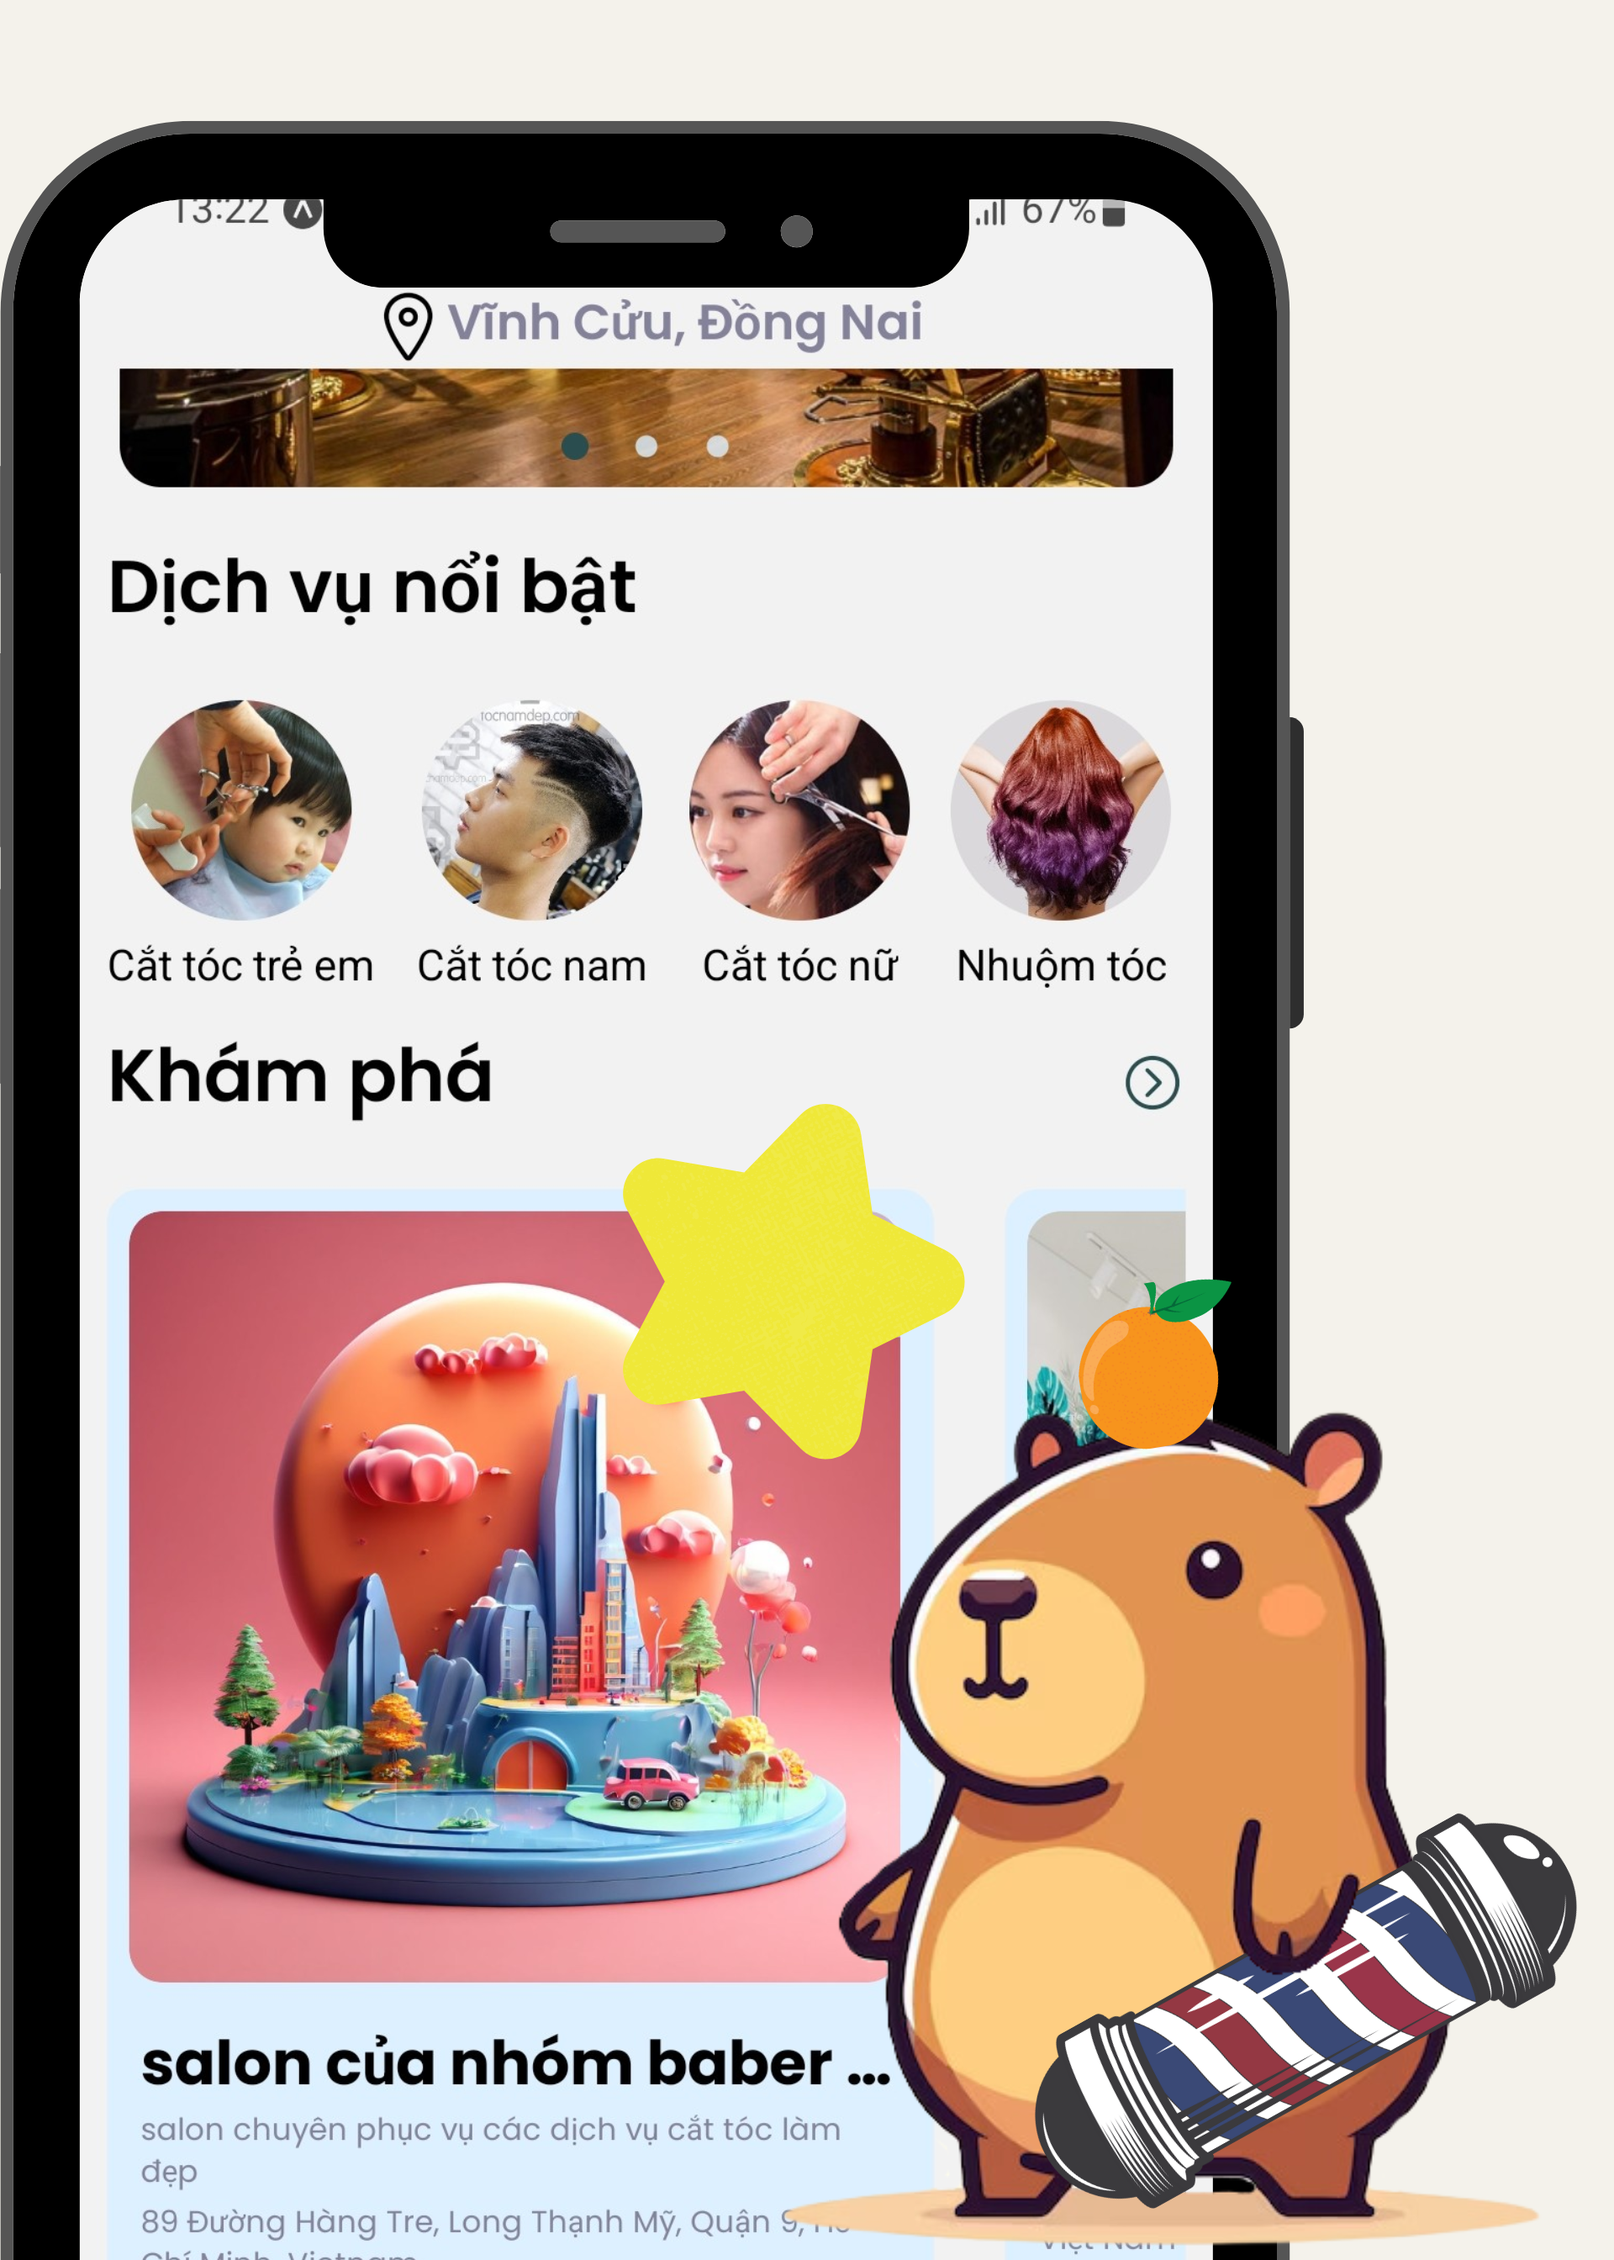
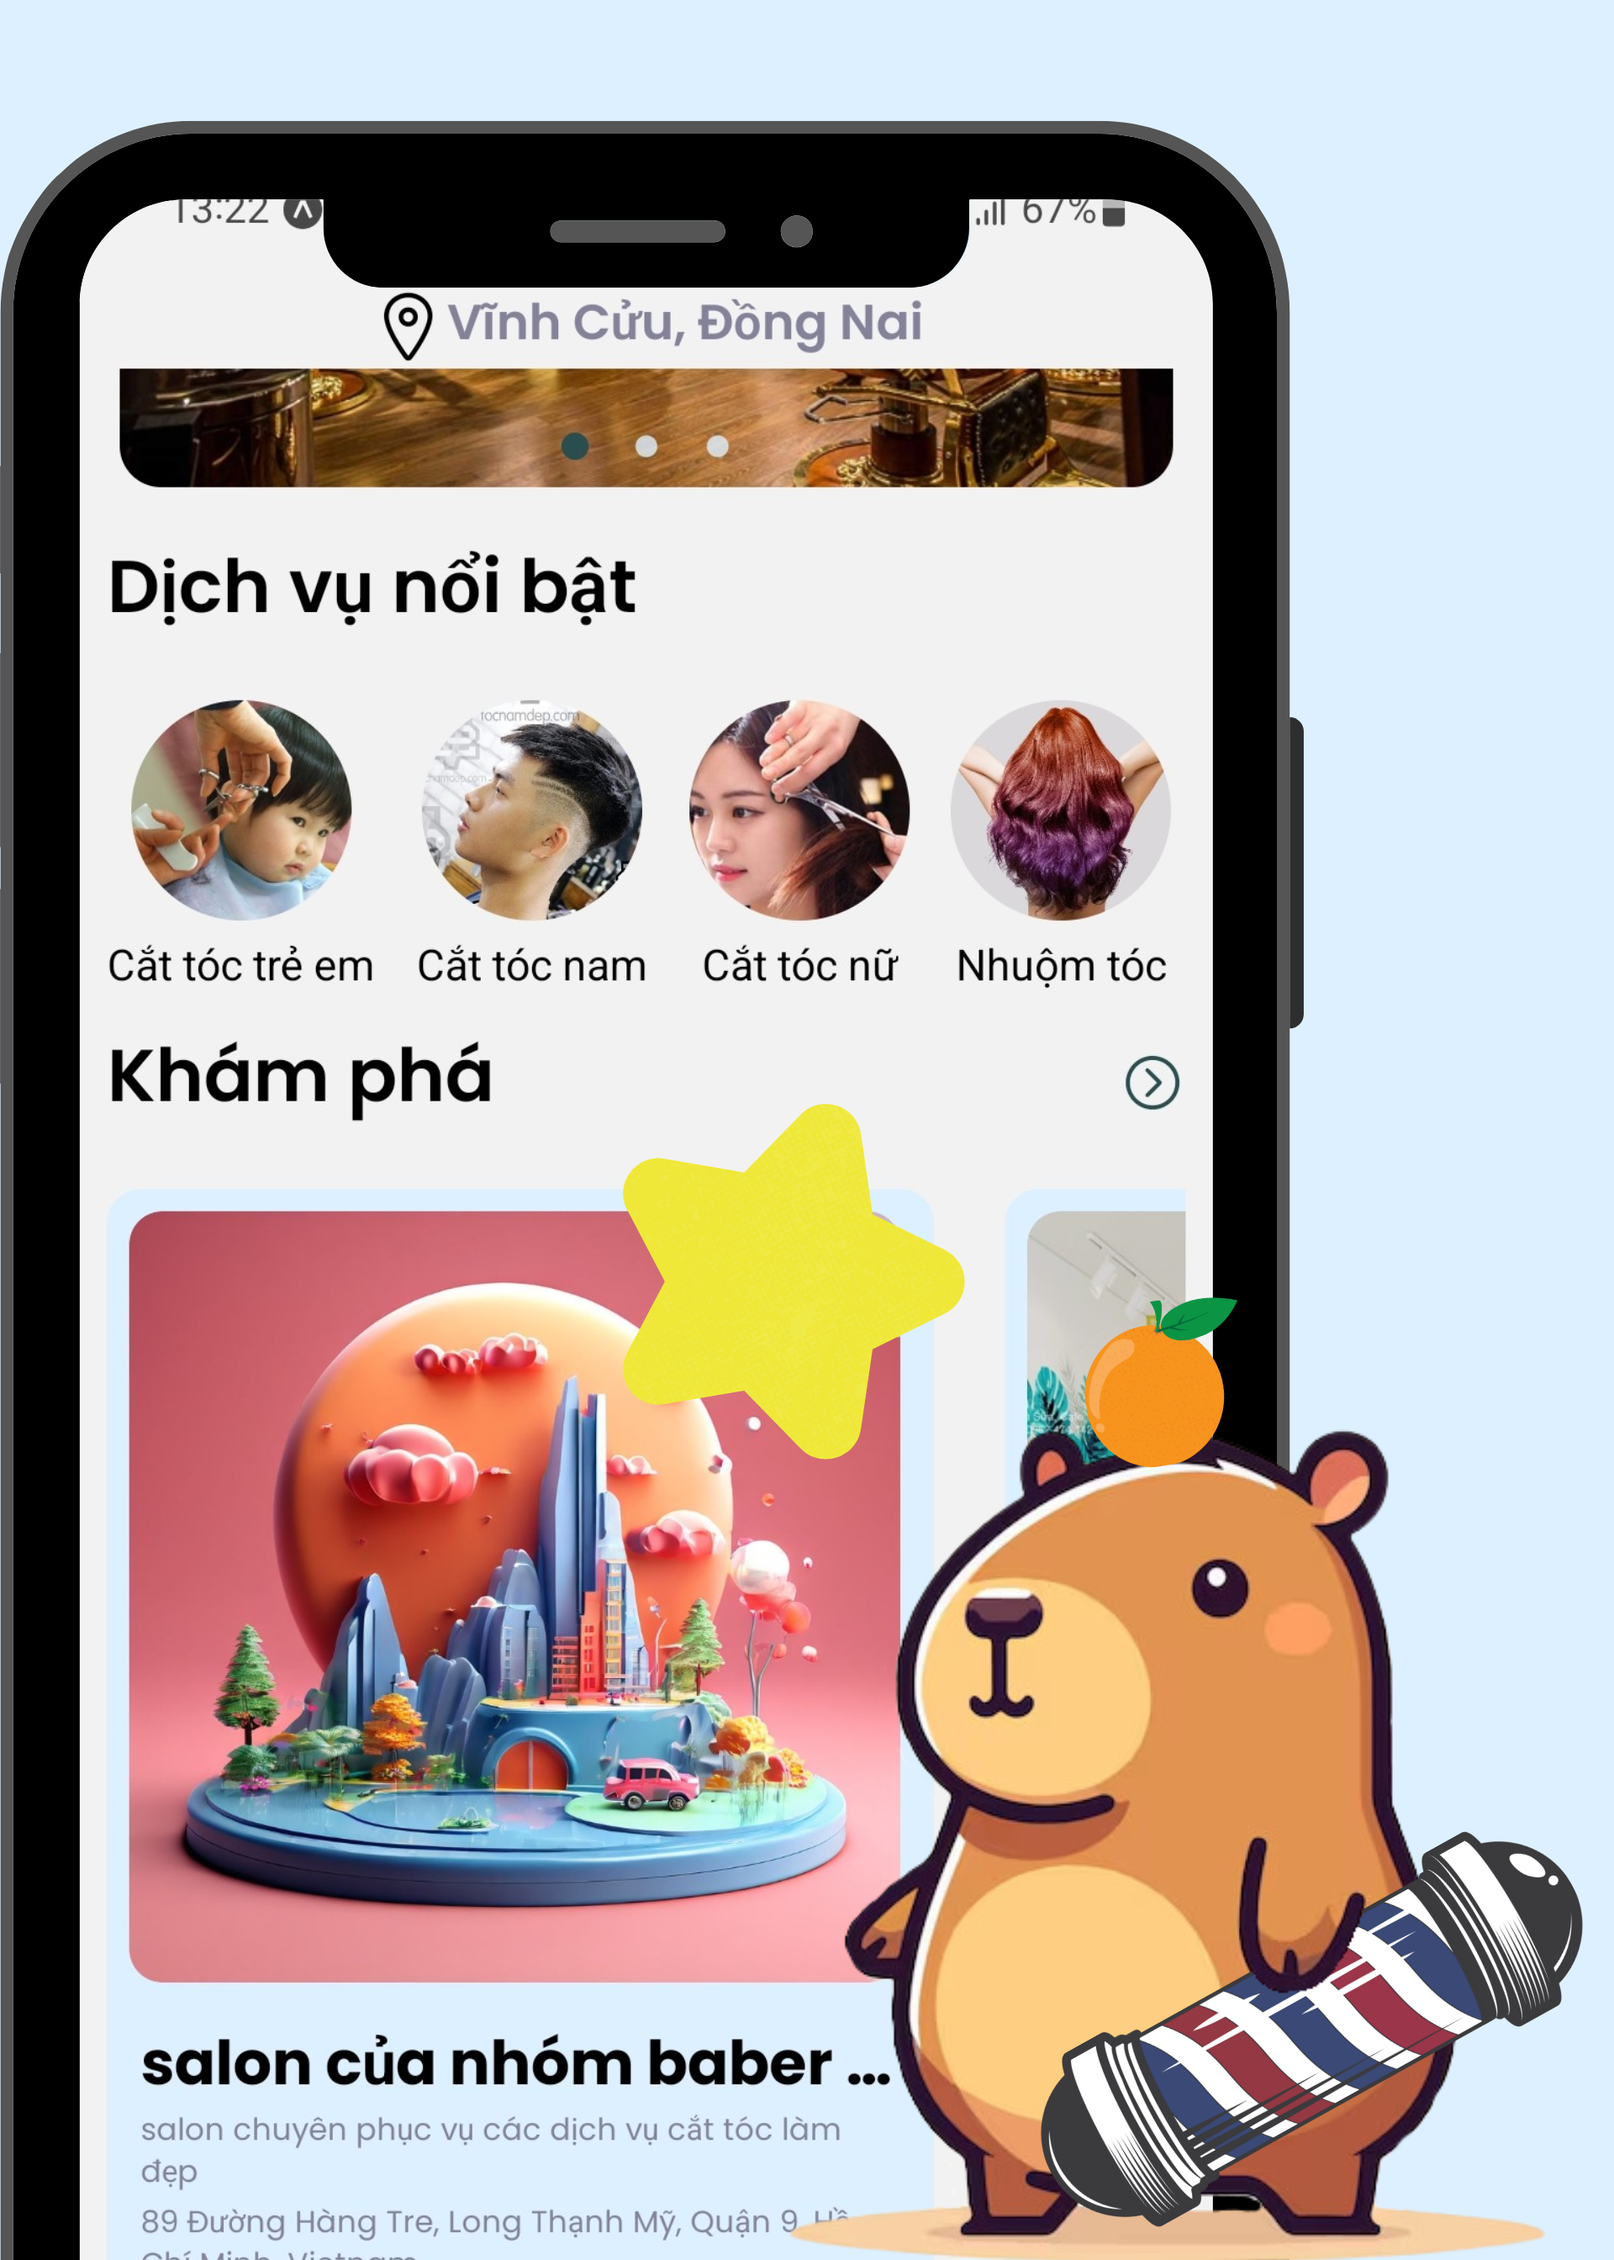
fix UI homepage2

Changed region(s): [[0.4688, 0.5625, 1.0, 1.0]]

diff --git a/src/pages/HomePage.jsx b/src/pages/HomePage.jsx
@@ -210,7 +210,7 @@ function HomePage(props) {
             <div className="container">
               <div className="scroll-wrapper" ref={scrollContainerRef}>
                 <Title level={3} className="customTitle">
-                  Những tiệm Barber - Salon gợi ý cho bạn
+                  Những Barber Shop - Salon gợi ý cho bạn
                 </Title>
                 <div className="scroll-icons">
                   <LeftCircleOutlined
@@ -345,7 +345,7 @@ function HomePage(props) {
               <RightOutlined />
             </button> */}
           </Flex>
-          <div className="container location-card-container">
+          <div className="container" style={{ marginBlock: "10rem" }}>
             <Card bodyStyle={{ padding: 0 }} className="location-card">
               <Row>
                 <Col xs={24} md={16} className="location-card-col">
@@ -425,7 +425,7 @@ function HomePage(props) {
                 <Text
                   style={{
                     marginLeft: "1rem",
-                    fontSize: "1rem",
+                    fontSize: "1.5rem",
                     whiteSpace: "nowrap",
                     overflow: "hidden",
                     textOverflow: "ellipsis",
@@ -446,7 +446,7 @@ function HomePage(props) {
               </Text>
               <Text
                 style={{
-                  fontSize: "1.2rem",
+                  fontSize: "2rem",
                   fontWeight: "bold",
                   marginBottom: "1rem",
                   display: "block",
@@ -457,7 +457,7 @@ function HomePage(props) {
               </Text>
               <Text
                 style={{
-                  fontSize: "1.2rem",
+                  fontSize: "1.7rem",
                   marginBottom: "0.5rem",
                   display: "block",
                 }}
@@ -466,7 +466,7 @@ function HomePage(props) {
               </Text>
               <Text
                 style={{
-                  fontSize: "1.2rem",
+                  fontSize: "1.7rem",
                   marginBottom: "1rem",
                   display: "block",
                 }}
@@ -504,18 +504,18 @@ function HomePage(props) {
                       Tìm kiếm nhanh chóng, chỉ đường dễ dàng
                     </Title>
                     <Text className="text-card-homepage">
-                      -Hairhub giúp bạn tìm kiếm nhanh chóng các tiệm salon,
+                      - Hairhub giúp bạn tìm kiếm nhanh chóng các tiệm salon,
                       barber shop ở gần vị trí của bạn theo tên cửa tiệm tóc,
                       tên dịch vụ.{" "}
                     </Text>
                     <Text className="text-card-homepage">
-                      -Hairhub còn giúp chỉ đường cho bạn đến cửa tiệm tóc bằng
-                      bản đồ Google Map.{" "}
+                      - Hairhub còn giúp chỉ đường cho bạn đến cửa tiệm tóc bằng
+                      bản đồ Google Map dễ dàng.{" "}
                     </Text>
                   </div>
                 </Col>
                 <Col xs={24} md={10}>
-                  <div style={{ position: "relative", paddingTop: "56.25%" }}>
+                  <div style={{ position: "relative", paddingTop: "80%" }}>
                     <video
                       style={{
                         position: "absolute",
@@ -545,7 +545,7 @@ function HomePage(props) {
             <Card bodyStyle={{ padding: 0 }} className="card-homepage">
               <Row>
                 <Col xs={24} md={10}>
-                  <div style={{ position: "relative", paddingTop: "56.25%" }}>
+                  <div style={{ position: "relative", paddingTop: "80%" }}>
                     <video
                       style={{
                         position: "absolute",
@@ -613,7 +613,7 @@ function HomePage(props) {
                   </div>
                 </Col>
                 <Col xs={24} md={10}>
-                  <div style={{ position: "relative", paddingTop: "56.25%" }}>
+                  <div style={{ position: "relative", paddingTop: "80%" }}>
                     <video
                       style={{
                         position: "absolute",

diff --git a/src/css/style.css b/src/css/style.css
@@ -200,7 +200,7 @@
  \*-----------------------------------*/
  
  .container {
-   padding-inline: 100px;
+   padding-inline: 10rem;
  }
  
  /* .section { padding-block: var(--section-padding); } */
@@ -1598,9 +1598,9 @@
   color: #bf9456;
 }
 
-.location-card-container{
+/* .location-card-container{
   margin: 10rem 0;
-}
+} */
 
 .location-card {
   border-radius: 2px;
@@ -1616,9 +1616,9 @@
   overflow: hidden;
   margin: 1rem 0;
   border-radius: 1rem;
-  background-color: #f4f2eb;
-  border-width: 3px;
-  border-color: #bf9456;
+  background-color: #ddf0ff;
+  /* border-width: 3px;
+  border-color: #bf9456; */
 }
 .location-card-col{
   padding: 1rem;
@@ -1681,6 +1681,7 @@
   font-weight: bold;
   margin-left: 1rem;
   display: block;
+  margin-bottom: 10rem;
 }
 
 .text-card-homepage{
